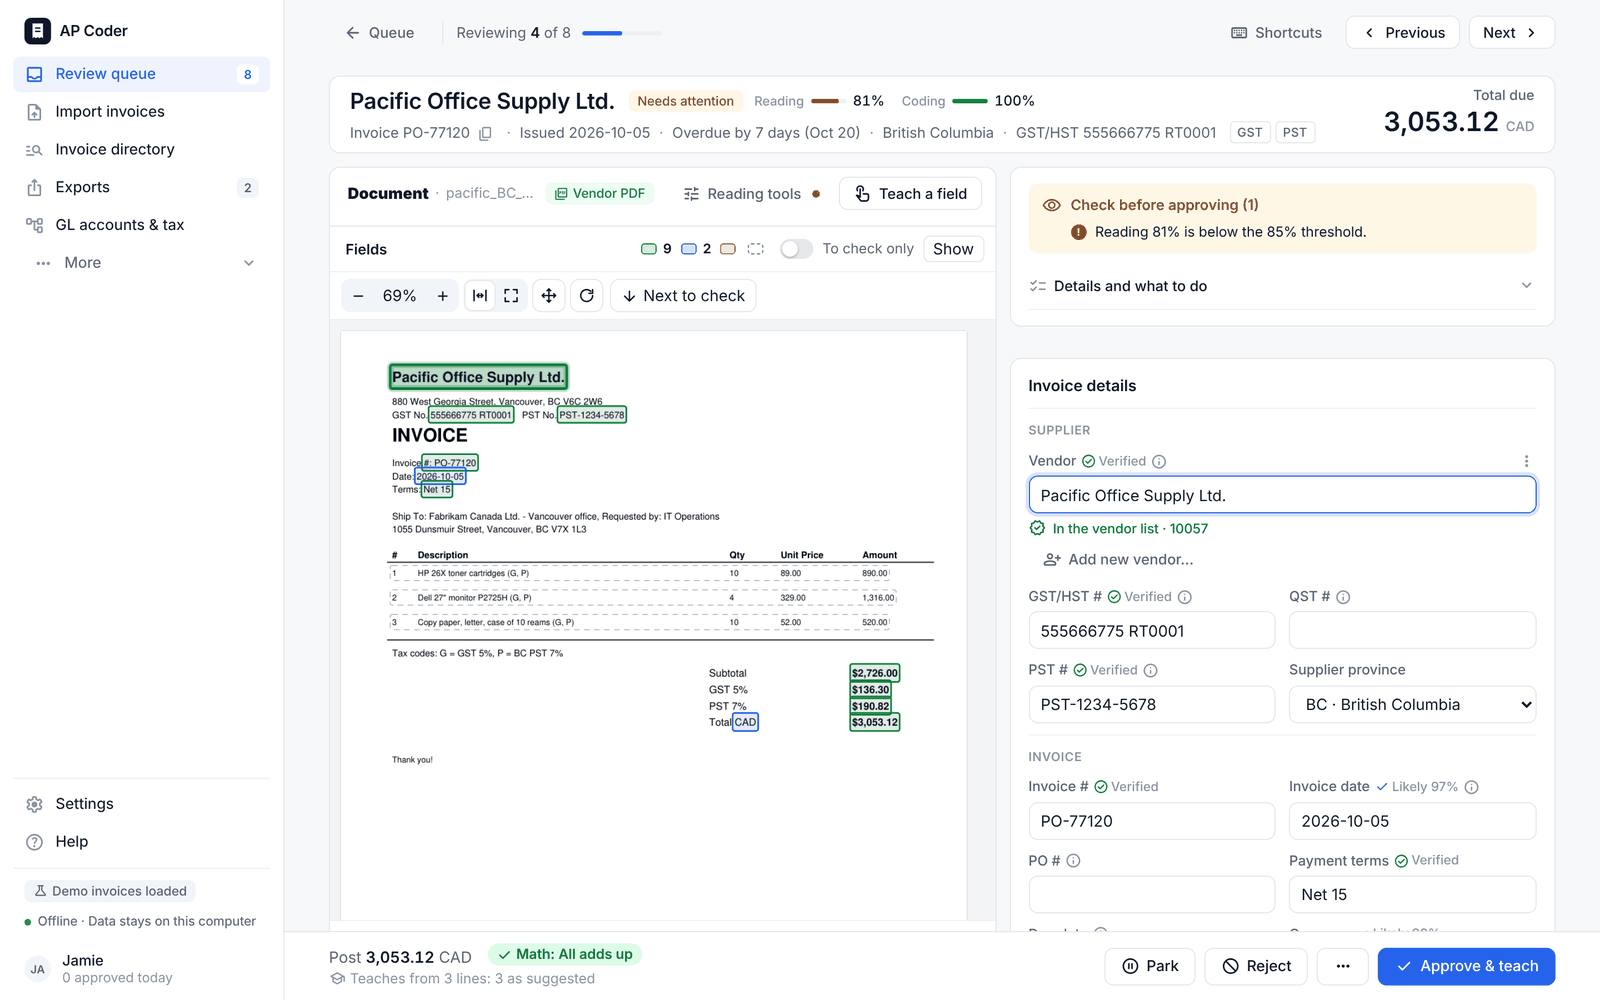
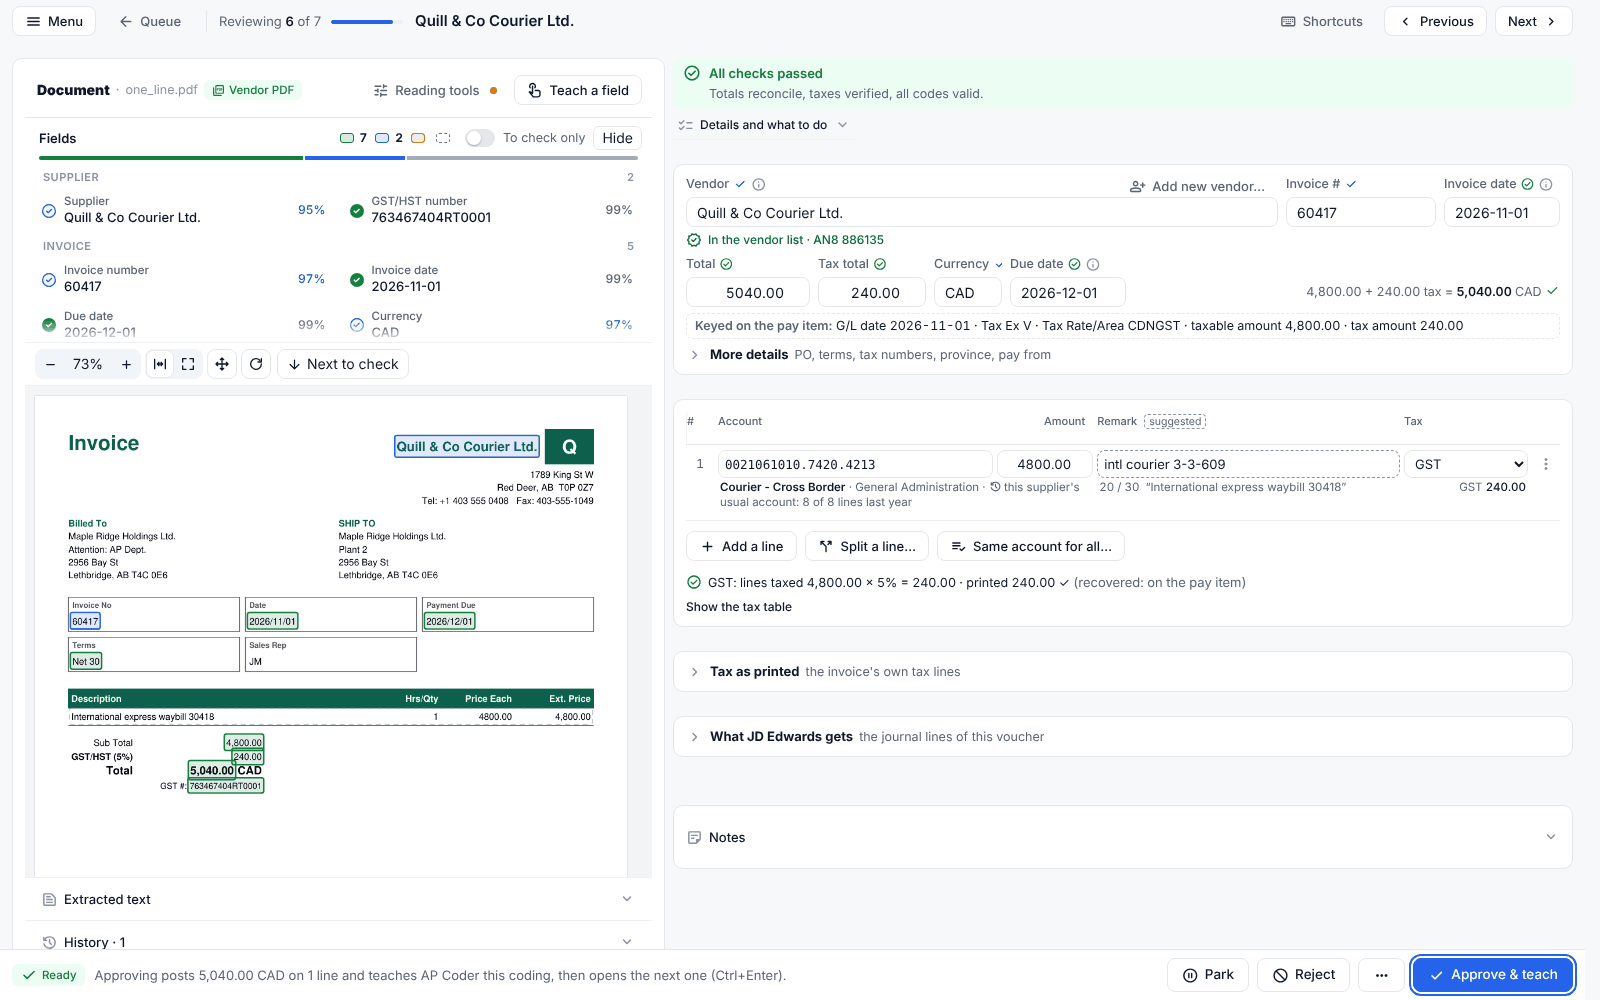
README: the front page shows today's screens and says what the one-laptop prototype does
Five new pictures of the made-up company on Simple screens (queue, review with one account
string a line, JD Edwards files, To key into JDE, What was learned); the account string, the
keying sheet, last year's journal, rules with history and several files in one voucher said in
What it does; the test count and the server's three systems brought up to date.

Claude-Session: https://claude.ai/code/session_01KmznnM6Uni5SXM6Jaqdi3e

diff --git a/README.md b/README.md
@@ -1,8 +1,8 @@
 # AP Coder
 
-**An offline AI assistant for Accounts Payable.** It reads Canadian supplier invoices, codes them to your GL
-accounts and cost centers, checks GST/HST/PST/QST and the math, learns from every approval, and exports approved
-invoices to JD Edwards E1 or Excel.
+**An offline AI assistant for Accounts Payable.** It reads Canadian supplier invoices, codes each line to your
+accounts (with a JD Edwards chart loaded: one account string, `business unit.object.subsidiary`), checks
+GST/HST/PST/QST and the math, learns from every approval, and hands approved invoices to JD Edwards E1 or Excel.
 
 [![CI](https://github.com/MNabikhel/AP_Processer/actions/workflows/ci.yml/badge.svg)](https://github.com/MNabikhel/AP_Processer/actions/workflows/ci.yml)
 
@@ -10,31 +10,37 @@ It runs on one laptop, or on one company server for the whole AP team. Every inv
 OCR and by small models in [LM Studio](https://lmstudio.ai/), and nothing leaves it unless an Admin switches on one
 of the [exceptions](#what-leaves-the-laptop).
 
-![The review queue: today's work, the invoices waiting, and the ones clean enough to approve together](docs/screenshots/review-queue.png)
+![The review queue: the invoices waiting, why each one needs a person, and the ones clean enough to approve together](docs/screenshots/review-queue.png)
 
 ## Where it stands
 
 | | |
 |---|---|
+| **One department, one laptop** | Built: a prototype for one department on a Windows laptop, working from JD Edwards' own exports (the chart of accounts, the business units, the suppliers, last year's coding), with a keying sheet to type vouchers from. It scores itself against last year before anyone relies on it: [docs/PROTOTYPE.md](docs/PROTOTYPE.md). The same laptop can then serve a few colleagues, with logins (`python -m ap_coder share`). Not yet run on a company's real invoices. |
 | **Laptop release** | Ready: checked end to end, the way a pilot tester uses it. Next: Phase 0 connects AP Coder to the company's inbox, sign-in and JD Edwards, then Phase 1, a live pilot with up to 10 people ([docs/PILOT_PLAN.md](docs/PILOT_PLAN.md)). |
-| **Company server** | Built, with HTTPS, logins with a code from an authenticator app, and four roles; reviewed for security within the project and sized for 300 to 400 people, not yet reviewed by a company's IT security team. Not installed yet: [docs/SERVER.md](docs/SERVER.md). |
-| **JD Edwards E1** | Approved invoices go out as JDE's standard batch files (F0411Z1/F0911Z1). The direct API connection is built and waits for the JDE team: [docs/JDE_E1.md](docs/JDE_E1.md). In the pilot they go in as pending batches that AP approves and posts in E1, so E1's batch approval keeps a person's final check. |
+| **Company server** | Built for Windows, Linux and macOS, with HTTPS, logins with a code from an authenticator app, and four roles; reviewed for security within the project and sized for 300 to 400 people, not yet reviewed by a company's IT security team. Not installed yet: [docs/SERVER.md](docs/SERVER.md). |
+| **JD Edwards E1** | Approved invoices go out as a keying sheet (one block a voucher, to type from) or as JDE's standard batch files (F0411Z1/F0911Z1). The direct API connection is built and waits for the JDE team: [docs/JDE_E1.md](docs/JDE_E1.md). In the pilot they go in as pending batches that AP approves and posts in E1, so E1's batch approval keeps a person's final check. |
 | **Finance AI Hub** | AP Coder's feed to Microsoft Fabric is built (off until an Admin turns it on): [docs/FINANCE_HUB.md](docs/FINANCE_HUB.md). |
-| **Quality** | About 6,000 automated tests run on every change, on Windows and Linux; the install and the update are checked on clean Windows and Mac machines. Every bug fixed gets its own test ([docs/BUGS.md](docs/BUGS.md)). |
+| **Quality** | About 7,200 automated tests run on every change, on Windows and Linux; the install and the update are checked on clean Windows and Mac machines. Every bug fixed gets its own test ([docs/BUGS.md](docs/BUGS.md)). |
 
 ## What it does
 
 1. **Reads every invoice on the machine:** PDFs, scans, phone photos and emails (`.eml`, `.msg`). Each value gets a
    confidence (*verified*, *likely*, *check*, *missing*) and is boxed on the page.
 2. **Codes each line** to your GL accounts and cost centers: from what AP approved before, then fixed rules, then a
-   local model for what is left. It can only pick codes from your chart.
-3. **Checks everything in code, not by AI:** totals, the tax rate for the province and date, registration numbers,
-   duplicates (under another vendor name too, or already in the ERP), vendor fraud signals, the PO match and
-   payment terms.
-4. **A person reviews and approves.** Every correction is remembered for that vendor's next invoice. A vendor whose
+   local model for what is left. It can only pick codes from your chart. With a JD Edwards chart loaded, a line gets
+   one account string that exists and can be posted to, the supplier's usual accounts are offered first (learned
+   from last year's journal on day one), and the 30-character remark is suggested. A line it is not sure of is left
+   to a person, with the reason and its best candidates.
+3. **Checks everything in code, not by AI:** totals, each line's tax and the rate for the province and date, the
+   GST/HST number against the supplier list, duplicates (under another vendor name too, or already in the ERP),
+   vendor fraud signals, the PO match and payment terms.
+4. **A person reviews and approves.** Every correction is remembered for that vendor's next invoice; coding rules
+   keep their history and can be undone; several files (the receipts of one claim) can be joined into one voucher. A vendor whose
    record proves it can go touchless, once an AP lead switches that on (off by default, and off for the pilot until
    the company's AI team has reviewed it).
-5. **Exports** approved invoices to JD Edwards or Excel/CSV, and covers the rest of the AP cycle: month-end
+5. **Exports** approved invoices to JD Edwards (batch files, or a keying sheet) or Excel/CSV, and covers the rest
+   of the AP cycle: month-end
    accruals, the sales-tax claim, vendor statements, a duplicate payment audit and the audit trail.
 
 ```
@@ -52,12 +58,17 @@ invoice (PDF, scan, photo, email) ─► read on the machine: text layer or OCR,
 
 | | |
 |---|---|
-| ![An invoice in review: the page with every value boxed, the checks, and the approve bar](docs/screenshots/invoice-review.png) | ![The invoice directory: every invoice in one table, filtered by any column](docs/screenshots/invoice-directory.png) |
-| ![Sales tax: the GST/HST and QST to claim back for a period](docs/screenshots/sales-tax.png) | ![Learning & accuracy: how often the coding is right, and what was learned](docs/screenshots/learning.png) |
+| ![An invoice in review: the page with every value boxed, one account string a line, each line's tax, and the approve bar](docs/screenshots/invoice-review.png) | ![JD Edwards files: the chart of accounts, business units, suppliers, last year's coding and vouchers, each loaded from JD Edwards' own export](docs/screenshots/jde-files.png) |
+| ![To key into JDE: the approved invoices ready for a keying sheet or a batch file](docs/screenshots/keying-sheet.png) | ![What was learned: how often the coding is right, and what each approval taught](docs/screenshots/learning.png) |
+| ![The invoice directory: every invoice in one table, filtered by any column](docs/screenshots/invoice-directory.png) | ![Sales tax: the GST/HST and QST to claim back for a period](docs/screenshots/sales-tax.png) |
 
-**Want to look around?** Start AP Coder and, in **Settings** → **Data & backups**, click **Load demo invoices**: ten
-sample invoices from across Canada, with sample purchase orders and a vendor list. (The screenshots are of these
-samples.)
+The first five pictures are of a made-up company with the short menu a new laptop starts with (*Simple screens*);
+the last two are of the demo invoices with every screen switched on (*Settings → About → Screens*).
+
+**Want to look around?** Two ways, neither needs your own data:
+- `python -m ap_coder demo --company` loads the made-up company: its JD Edwards exports and seven invoices to review.
+- In **Settings** → **Data & backups**, **Load demo invoices** adds ten sample invoices from across Canada, with
+  sample purchase orders and a vendor list. They are removed on the same page.
 
 ## Get started on a laptop
 
